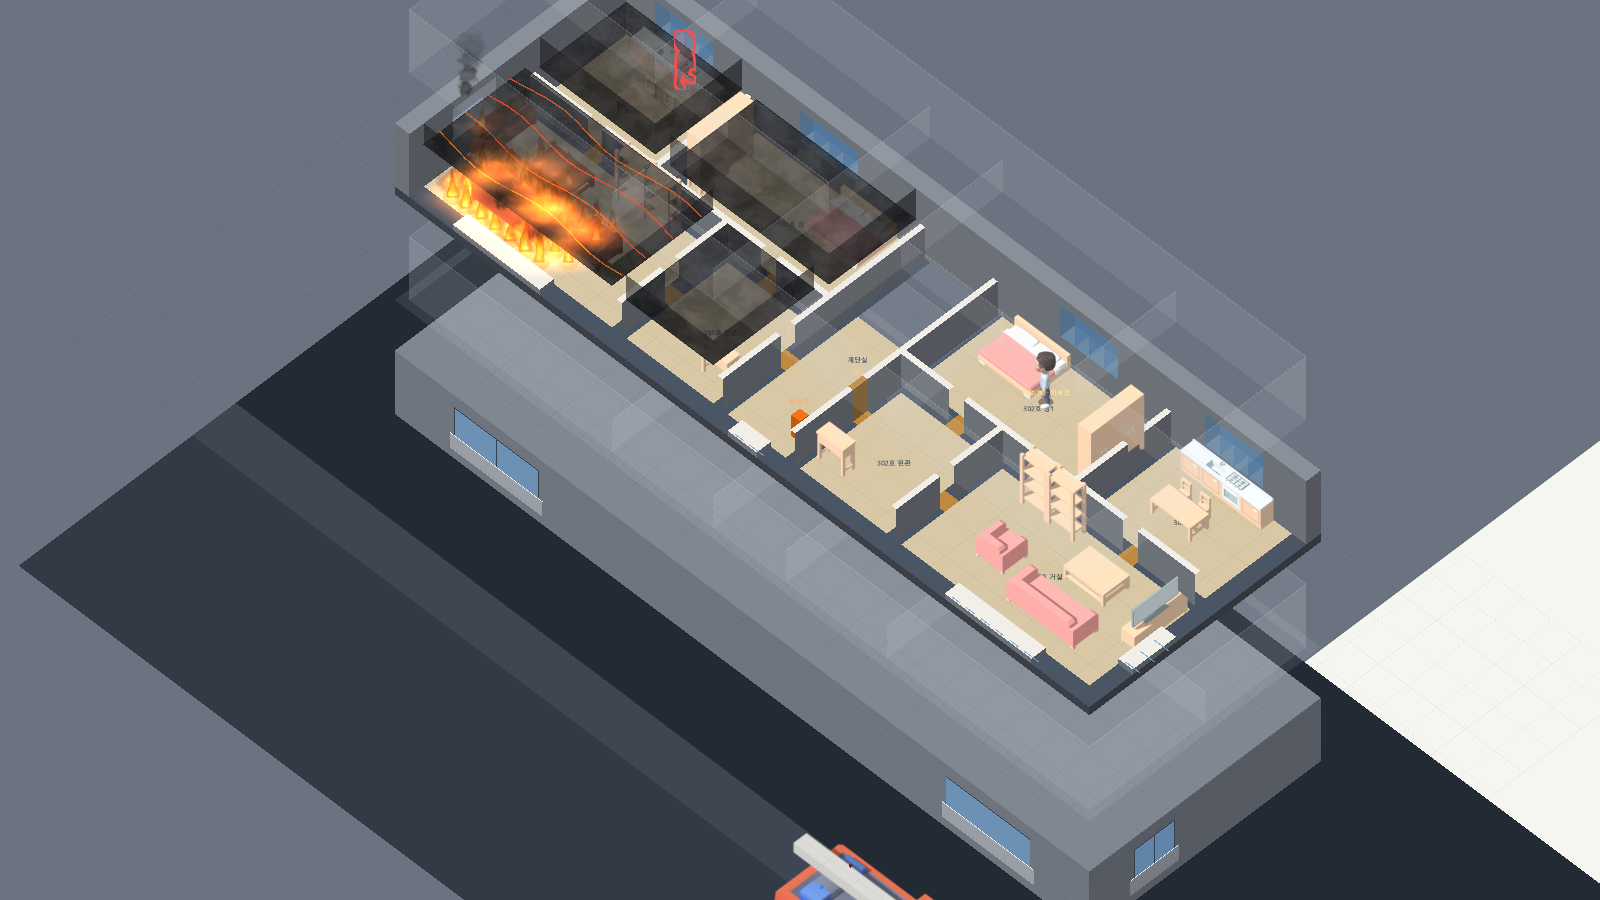
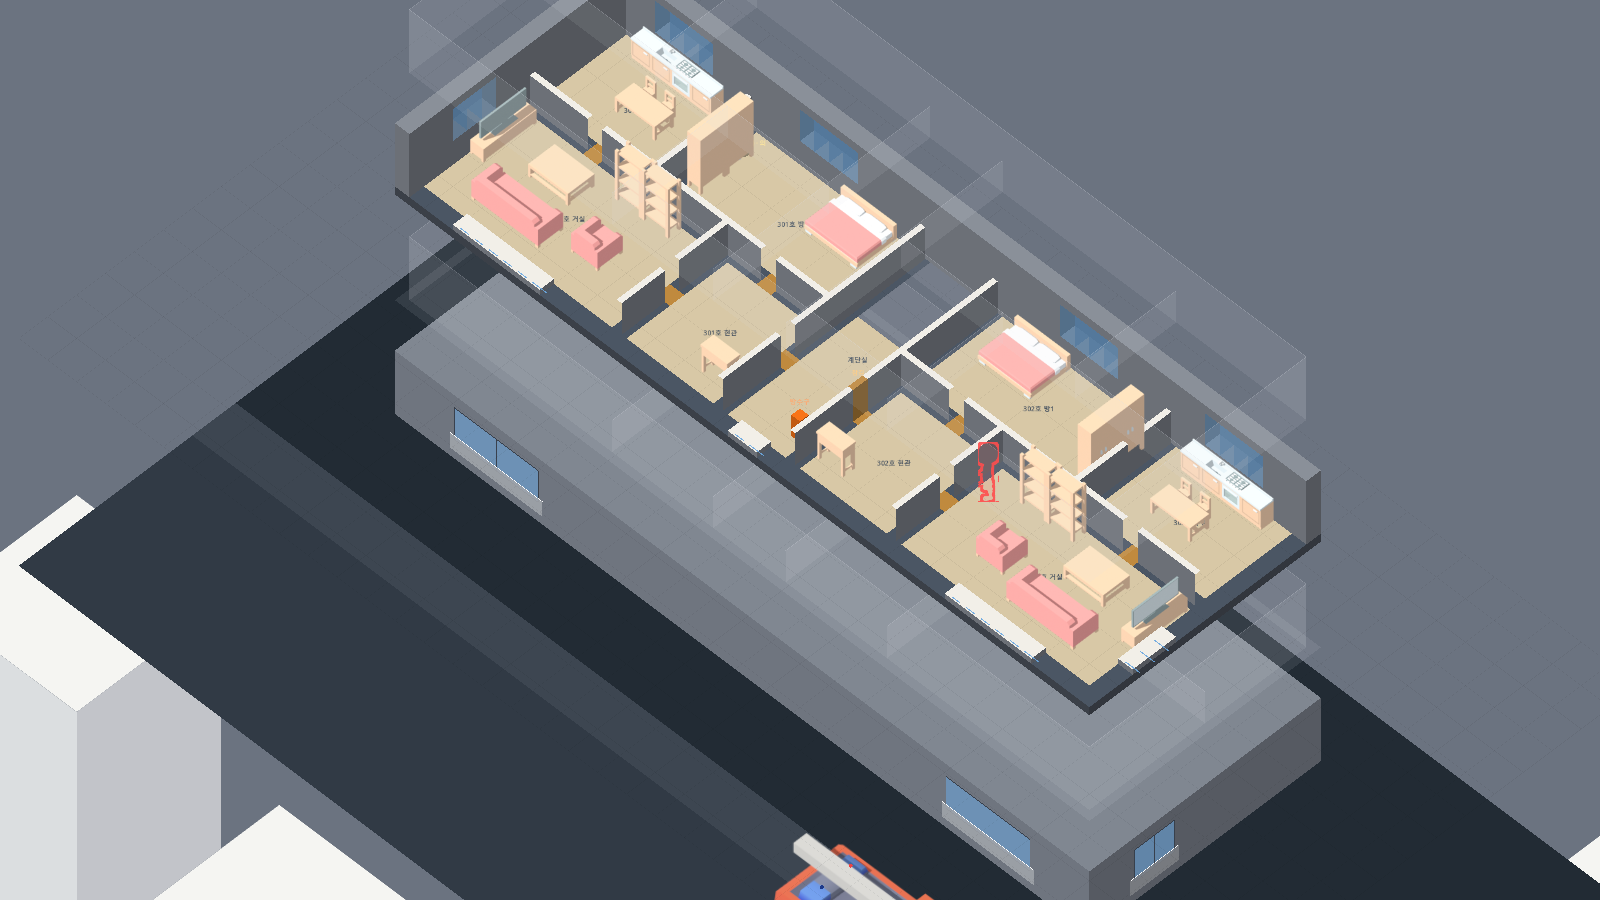
F01: 짝 층 50% 흑백(불·연기·사람은 색 그대로), 앞벽 바깥 모서리 세로기둥 점선

diff --git a/docs/decisions.md b/docs/decisions.md
@@ -101,3 +101,4 @@
 | 2026-11-12 | F01 | 비키는 거리·실내 벽 | 위층은 건물 깊이의 2/3만큼 뒤로(고른 층의 뒤 1/3을 덮음). 실내 벽은 그라데이션 없이 허리 높이(1.2m) 진한 벽 + 윗면 단면 띠 | 사용자 결정: 완전히 떨어지면 어색, 그라데이션은 구조 구분이 안 됨 |
 | 2026-11-12 | F01 | 인형집·위층 표시·대원 가림 | 앞 바깥벽 없앰(문은 서 있고 창은 바닥 높이 창틀·유리로), 위층 표시: 모서리 세로 안내 점선 + 바닥판 띠 + 아래층에 드리운 그림자, 아래층 대원·발견한 요구조자 둘레만 위층을 30%로(셰이더) | 사용자 결정 — 인형집 표준(심즈·폴아웃 셸터), 분해도 안내선, 디아블로·Zomboid식 가림 처리 |
 | 2026-11-12 | F01 | 짝 층·앞벽 자리·실내 벽 두께 | 비켜 놓은 짝 층 25% + 층 이름표(지금 층 표시), 없앤 앞벽 자리는 바닥선 실선·꼭대기와 모서리 반투명 점선, 실내 벽·실내 문 두께 = 칸의 0.34(바깥벽의 1/3), 이음새 끝면 생략, 벽 칸 바닥은 보통 바닥색 | 사용자 결정 |
+| 2026-11-12 | F01 | 짝 층 흑백·모서리 기둥 | 짝 층 50% + 흑백(셰이더), 그 층의 불·연기·사람은 위에 원래 색으로 따로 그림(PartnerLive). 없앤 앞벽은 건물 바깥 모서리에만 굵은 세로 점선 기둥(80%), 벽 중간 세로선 없앰 | 사용자 결정 (가) — 흑백은 '작업하지 않는 층' 표준 표시, 불·대원은 놓치면 안 되는 정보 |
